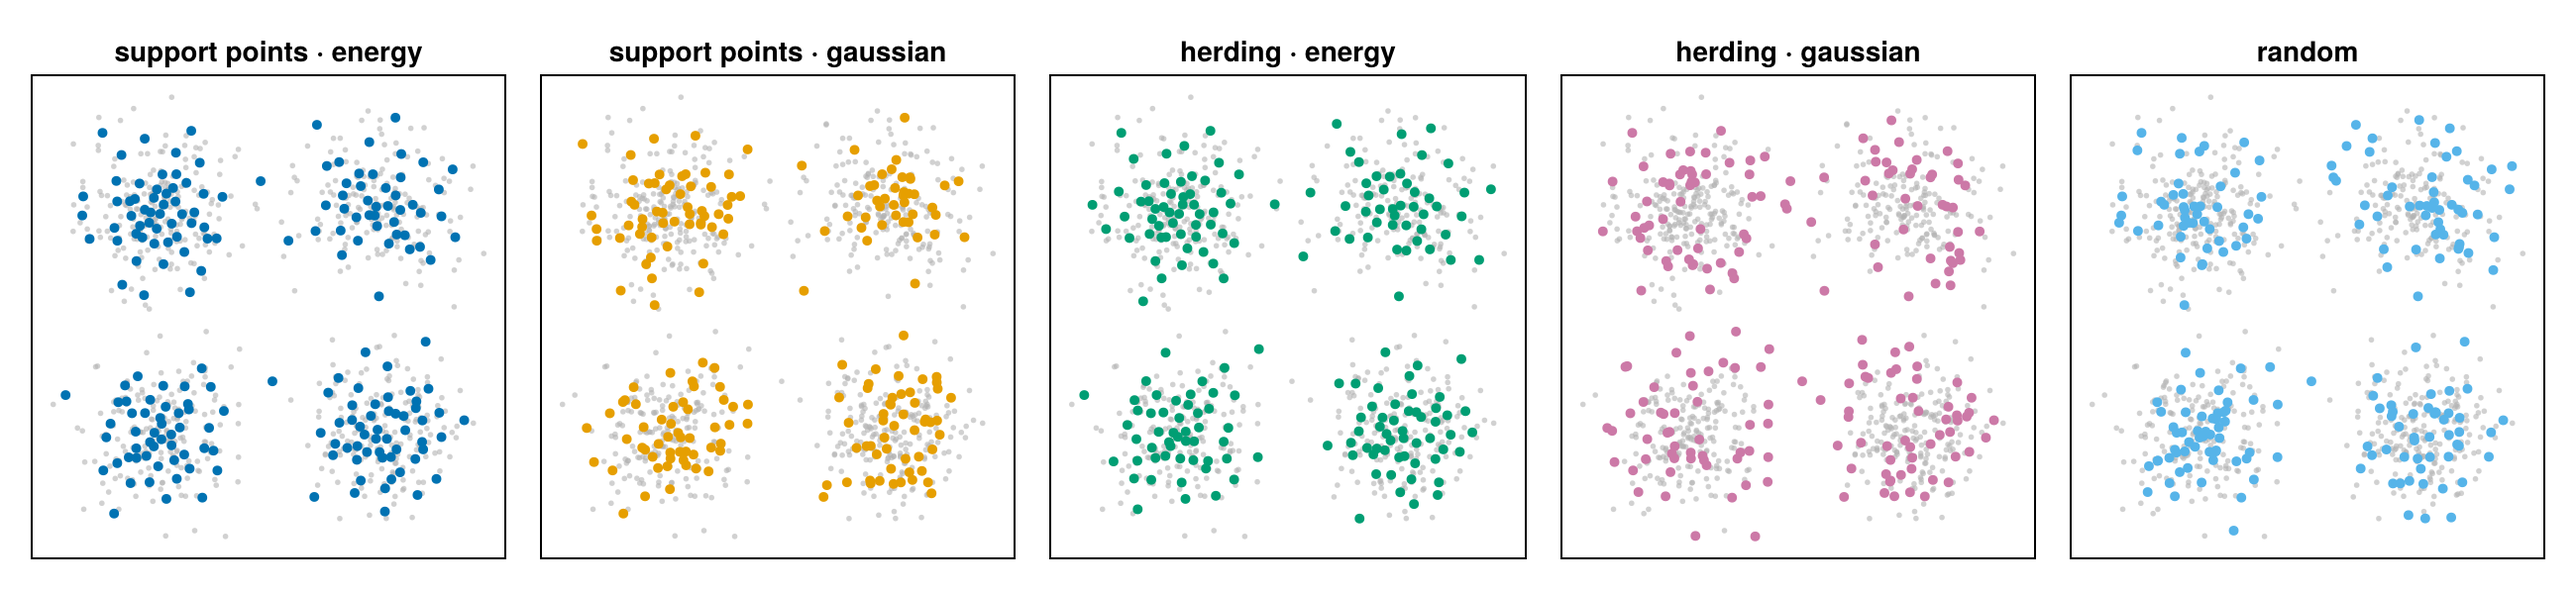
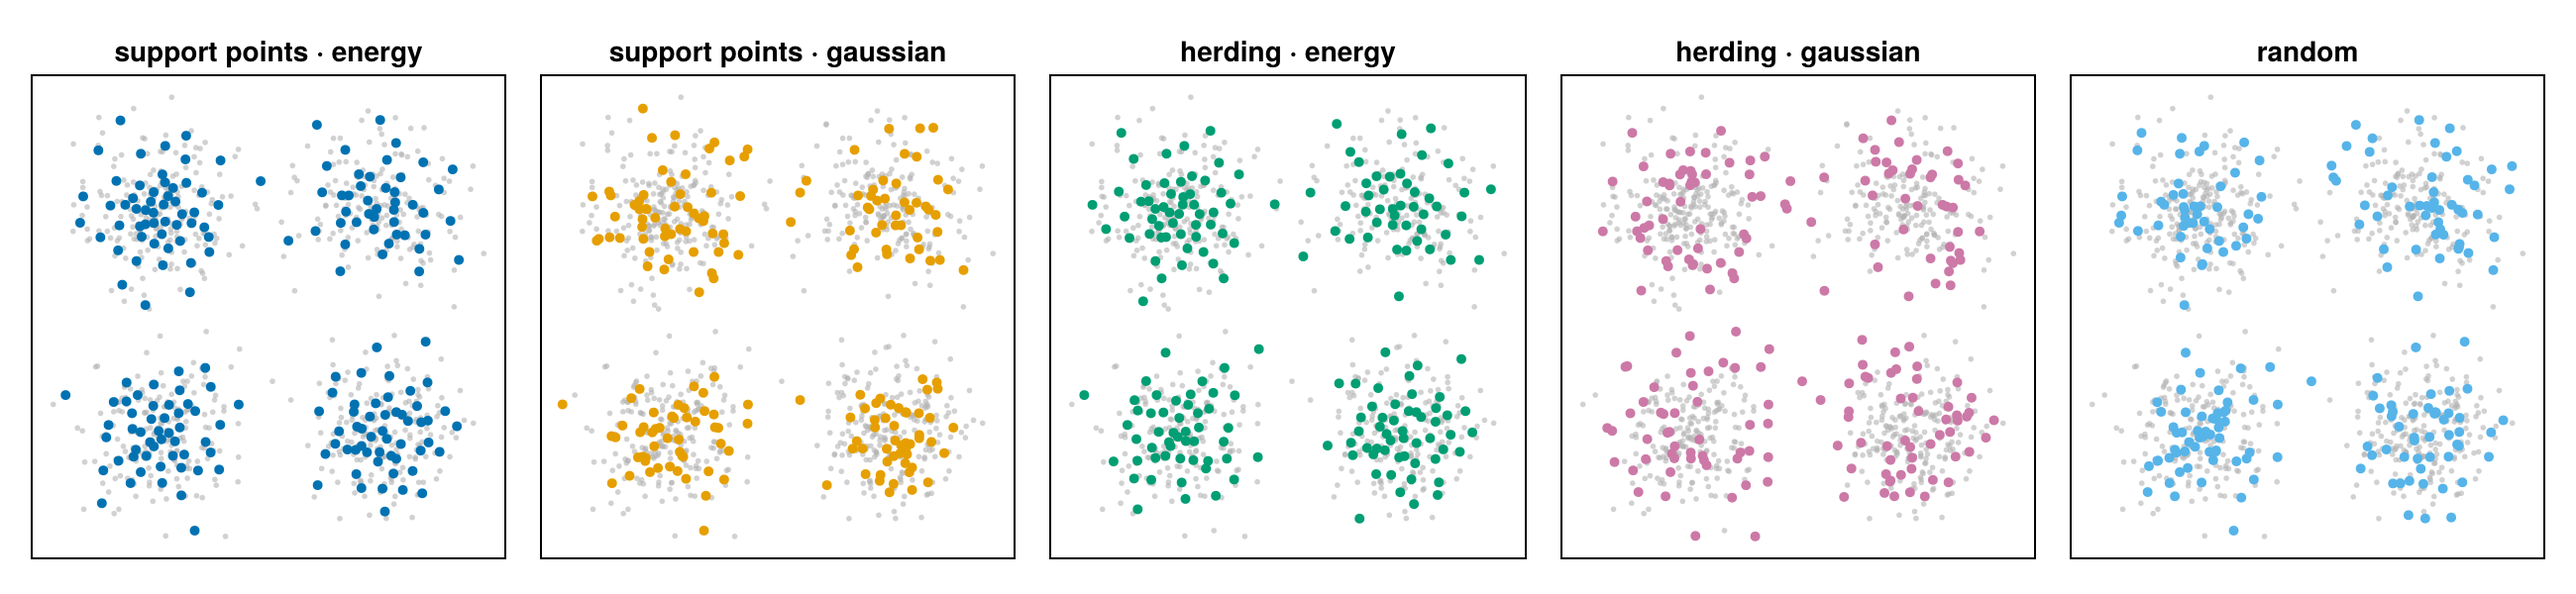
bench: Score splits exactly with seeded rngs and re-run
benchmark/run.jl:
- Score every (dataset, method) pair with splitquality(...;
  exact_threshold = typemax(Int)) so the recorded energy distance and
  MMD are exact even at N = 10,000, never the subsampled estimator
  (which added positive-bias noise above the 4,000-row threshold).
- methods(N; rng_seed) now takes the rng seed explicitly; each
  splitter's JIT warm-up runs on a throwaway MersenneTwister(0)-seeded
  copy before the timed MersenneTwister(1)-seeded run, so warm-up
  compilation no longer consumes the timed splitter's own rng stream.
- time.png now draws one scatterlines series per (method, dataset)
  instead of pooling every dataset into one line per method, colored
  by method with one legend entry each.

Re-ran `julia -t auto --project=benchmark benchmark/run.jl` (3:11
wall, 16 threads) and committed the regenerated results.md and the
three PNGs. docs/src/20-benchmarks.md Setup now documents the exact
scoring and the warm-up/timed seed split; the Results table and
Reading the results section are rewritten from the new numbers, and
the early-stop explanation is corrected (see the following commit's
description for the root cause).

diff --git a/docs/src/20-benchmarks.md b/docs/src/20-benchmarks.md
@@ -18,13 +18,21 @@ At ``N = 10{,}000`` the support-point methods use `kappa = 1_000`
 has no stochastic mode) to keep wall time reasonable; the herding methods
 use `kappa = 2_000` at that size. On `normal-10d` and `uniform-5d` at that
 size, `support points · gaussian` converges after a single iteration
-(`result.converged == true`, ~1 s) rather than running the full
+(`result.converged == true`, 0.49-0.58 s) rather than running the full
 100-iteration cap that `mixture-2d` and `t3-3d` use there (not converged,
-~40-45 s) — see "Reading the results" for why.
+43-44 s): the absolute displacement tolerance fires at the initial sample
+because the 1/n-scaled gradient is below it; a scale-aware tolerance is a
+planned follow-up — see "Reading the results" for the full explanation.
 
 For every (dataset, method) pair the script records the energy distance and
 the Gaussian-kernel MMD (median-heuristic bandwidth, resolved once per
 dataset) between the resulting train and test rows, plus wall-clock time.
+Every score is computed exactly (`splitquality(...; exact_threshold =
+typemax(Int))`), never via the subsampled estimator, so the table below
+carries no subsampling noise even at ``N = 10{,}000``. Each splitter's
+JIT warm-up runs on a throwaway copy seeded with `MersenneTwister(0)`
+before the timed run on a `MersenneTwister(1)`-seeded copy, so warm-up
+compilation never consumes the timed splitter's own random draws.
 Smaller is better for both discrepancy metrics.
 
 Exact command:
@@ -60,69 +68,86 @@ overlaid, showing why the methods disagree on which rows to hold out.
 
 | dataset | N | method | energy distance | MMD (Gaussian, median σ) | seconds |
 |---|---:|---|---:|---:|---:|
-| mixture-2d | 1000 | support points · energy | 0.000333 | 1.1e-6 | 0.46 |
-| mixture-2d | 1000 | support points · gaussian | 0.00258 | 1.64e-5 | 1.1 |
-| mixture-2d | 1000 | herding · energy | 0.000439 | 1.08e-5 | 0.0018 |
-| mixture-2d | 1000 | herding · gaussian | 0.00772 | 1.9e-5 | 0.021 |
+| mixture-2d | 1000 | support points · energy | 0.000323 | 1.57e-6 | 0.33 |
+| mixture-2d | 1000 | support points · gaussian | 0.00235 | 9.1e-6 | 1.1 |
+| mixture-2d | 1000 | herding · energy | 0.000439 | 1.08e-5 | 0.0021 |
+| mixture-2d | 1000 | herding · gaussian | 0.00772 | 1.9e-5 | 0.018 |
 | mixture-2d | 1000 | random | 0.012 | 0.00258 | – |
-| normal-10d | 1000 | support points · energy | 0.0229 | 0.00203 | 0.52 |
-| normal-10d | 1000 | support points · gaussian | 0.0309 | 0.00302 | 1.2 |
-| normal-10d | 1000 | herding · energy | 0.00822 | 0.000114 | 0.0029 |
-| normal-10d | 1000 | herding · gaussian | 0.00927 | 9.82e-5 | 0.015 |
+| normal-10d | 1000 | support points · energy | 0.0215 | 0.00187 | 0.76 |
+| normal-10d | 1000 | support points · gaussian | 0.0247 | 0.00224 | 1.3 |
+| normal-10d | 1000 | herding · energy | 0.00822 | 0.000114 | 0.0027 |
+| normal-10d | 1000 | herding · gaussian | 0.00927 | 9.82e-5 | 0.031 |
 | normal-10d | 1000 | random | 0.0255 | 0.00227 | – |
-| uniform-5d | 1000 | support points · energy | 0.00392 | 9.87e-5 | 0.54 |
-| uniform-5d | 1000 | support points · gaussian | 0.0149 | 0.00176 | 1.2 |
-| uniform-5d | 1000 | herding · energy | 0.00343 | 3.62e-5 | 0.002 |
-| uniform-5d | 1000 | herding · gaussian | 0.00535 | 3.54e-5 | 0.012 |
+| uniform-5d | 1000 | support points · energy | 0.0047 | 0.000255 | 0.56 |
+| uniform-5d | 1000 | support points · gaussian | 0.015 | 0.00176 | 1.1 |
+| uniform-5d | 1000 | herding · energy | 0.00343 | 3.62e-5 | 0.012 |
+| uniform-5d | 1000 | herding · gaussian | 0.00535 | 3.54e-5 | 0.016 |
 | uniform-5d | 1000 | random | 0.0173 | 0.00217 | – |
-| t3-3d | 1000 | support points · energy | 0.00156 | 8.0e-5 | 0.33 |
-| t3-3d | 1000 | support points · gaussian | 0.00669 | 0.000993 | 1.1 |
-| t3-3d | 1000 | herding · energy | 0.00174 | 9.8e-5 | 0.0017 |
-| t3-3d | 1000 | herding · gaussian | 0.0035 | 7.58e-5 | 0.017 |
+| t3-3d | 1000 | support points · energy | 0.00163 | 0.000116 | 0.43 |
+| t3-3d | 1000 | support points · gaussian | 0.0052 | 0.000663 | 1.1 |
+| t3-3d | 1000 | herding · energy | 0.00174 | 9.8e-5 | 0.0018 |
+| t3-3d | 1000 | herding · gaussian | 0.0035 | 7.58e-5 | 0.014 |
 | t3-3d | 1000 | random | 0.0161 | 0.00375 | – |
-| mixture-2d | 10000 | support points · energy | 0.00102 | 0.000119 | 3.4 |
-| mixture-2d | 10000 | support points · gaussian | 0.00135 | 0.000184 | 41.0 |
-| mixture-2d | 10000 | herding · energy | 0.00159 | 0.000393 | 0.14 |
-| mixture-2d | 10000 | herding · gaussian | 0.00635 | 0.000297 | 0.38 |
-| mixture-2d | 10000 | random | 0.00151 | 0.000286 | – |
-| normal-10d | 10000 | support points · energy | 0.00361 | 0.000315 | 8.8 |
-| normal-10d | 10000 | support points · gaussian | 0.00455 | 0.000457 | 0.49 |
-| normal-10d | 10000 | herding · energy | 0.0045 | 0.000371 | 0.16 |
-| normal-10d | 10000 | herding · gaussian | 0.0046 | 0.000431 | 0.38 |
-| normal-10d | 10000 | random | 0.00355 | 0.000302 | – |
-| uniform-5d | 10000 | support points · energy | 0.00265 | 0.000373 | 5.6 |
-| uniform-5d | 10000 | support points · gaussian | 0.00303 | 0.00039 | 0.46 |
-| uniform-5d | 10000 | herding · energy | 0.0026 | 0.000281 | 0.12 |
-| uniform-5d | 10000 | herding · gaussian | 0.00338 | 0.00049 | 0.37 |
-| uniform-5d | 10000 | random | 0.00252 | 0.000327 | – |
-| t3-3d | 10000 | support points · energy | 0.00106 | 0.000246 | 4.2 |
-| t3-3d | 10000 | support points · gaussian | 0.00165 | 0.000259 | 45.0 |
-| t3-3d | 10000 | herding · energy | 0.00154 | 0.000426 | 0.091 |
-| t3-3d | 10000 | herding · gaussian | 0.0024 | 0.000397 | 0.32 |
-| t3-3d | 10000 | random | 0.00213 | 0.00044 | – |
+| mixture-2d | 10000 | support points · energy | 0.000173 | 3.2e-5 | 3.6 |
+| mixture-2d | 10000 | support points · gaussian | 0.0003 | 7.76e-7 | 43.0 |
+| mixture-2d | 10000 | herding · energy | 0.00121 | 0.000259 | 0.18 |
+| mixture-2d | 10000 | herding · gaussian | 0.00466 | 0.000163 | 0.4 |
+| mixture-2d | 10000 | random | 0.000885 | 0.000166 | – |
+| normal-10d | 10000 | support points · energy | 0.0025 | 0.000215 | 9.2 |
+| normal-10d | 10000 | support points · gaussian | 0.00299 | 0.000289 | 0.49 |
+| normal-10d | 10000 | herding · energy | 0.00238 | 0.000216 | 0.15 |
+| normal-10d | 10000 | herding · gaussian | 0.00313 | 0.000289 | 0.45 |
+| normal-10d | 10000 | random | 0.00208 | 0.000164 | – |
+| uniform-5d | 10000 | support points · energy | 0.000844 | 7.24e-5 | 6.0 |
+| uniform-5d | 10000 | support points · gaussian | 0.00187 | 0.000244 | 0.58 |
+| uniform-5d | 10000 | herding · energy | 0.00137 | 0.000147 | 0.14 |
+| uniform-5d | 10000 | herding · gaussian | 0.00188 | 0.000246 | 0.36 |
+| uniform-5d | 10000 | random | 0.00146 | 0.00016 | – |
+| t3-3d | 10000 | support points · energy | 0.000262 | 4.82e-5 | 4.8 |
+| t3-3d | 10000 | support points · gaussian | 0.000567 | 7.64e-5 | 44.0 |
+| t3-3d | 10000 | herding · energy | 0.000886 | 0.000155 | 0.11 |
+| t3-3d | 10000 | herding · gaussian | 0.00153 | 0.000217 | 0.35 |
+| t3-3d | 10000 | random | 0.00151 | 0.000305 | – |
 
 ## Reading the results
 
-`support points · energy` has the lowest or near-lowest energy distance in
-most rows, though at ``N = 1{,}000`` `herding · energy` is lower on
-`normal-10d` (0.00822 vs. 0.0229) and `uniform-5d` (0.00343 vs. 0.00392).
-`herding · gaussian` matches or beats `support points · energy` on MMD at
-``N = 1{,}000`` on `normal-10d` and `uniform-5d`, at a small fraction of the
-cost since herding has no iterative optimizer to run; at ``N = 10{,}000`` it
-falls behind on both (0.000431 vs. 0.000315 on `normal-10d`; 0.00049 vs.
-0.000373 on `uniform-5d`). `support points · gaussian` is the slowest
-method on `mixture-2d` and `t3-3d`, where it runs the full 100-iteration
-cap without converging (41-45 s at ``N = 10{,}000``); on `normal-10d` and
-`uniform-5d` it instead converges after one iteration, because with the
-median-heuristic bandwidth in 5-10 dimensions the initial random sample is
-already near-stationary for the MMD objective, so the optimizer stops right
-away — those two cells reflect an early stop (essentially a random sample),
-not a capped optimization, and their 0.46-0.49 s timings are not evidence
-of fast optimization. At ``N = 10{,}000``, energy distance favors the
-optimized methods on `mixture-2d` and `t3-3d`, while on `normal-10d` and
-`uniform-5d` every method is within noise of — or slightly behind — the
-random baseline on both metrics (the subsampled `splitquality` estimate
-above the 4,000-row exact threshold adds its own noise there). Recommendation:
-use `support points · energy` as the default; reach for `herding · gaussian`
-when Gaussian-kernel MMD is the target metric or a deterministic,
-optimizer-free split is wanted.
+At ``N = 1{,}000`` every method runs on the full data (no `kappa`), and
+herding is competitive with or ahead of support points: `herding · energy`
+has the lowest energy distance on `normal-10d` (0.00822 vs. 0.0215) and
+`uniform-5d` (0.00343 vs. 0.0047), and `herding · gaussian` has the lowest
+MMD on `normal-10d`, `uniform-5d`, and `t3-3d` (e.g. 9.82e-5 vs. 0.00187 on
+`normal-10d`) at a small fraction of the optimizer's wall time.
+`support points · energy` wins both metrics on `mixture-2d` and the energy
+distance on `t3-3d`.
+
+At ``N = 10{,}000``, where herding switches to `kappa = 2{,}000` (a 20%
+row subsample drawn once for the whole run) and `support points · energy`
+to `kappa = 1{,}000`, herding's advantage mostly disappears:
+`support points · energy` has the lowest energy distance on `mixture-2d`
+(0.000173), `uniform-5d` (0.000844), and `t3-3d` (0.000262), and the lowest
+MMD on `uniform-5d` and `t3-3d`; `support points · gaussian` has the lowest
+MMD on `mixture-2d` (7.76e-7). On `normal-10d` at ``N = 10{,}000`` every
+optimized method is slightly behind the random baseline on both metrics
+(random: 0.00208 energy distance, 0.000164 MMD) — with 10-D standard normal
+data and this coarse a reference sample, none of the methods has enough
+signal to reliably beat chance, and the gaps between methods there are
+small enough not to be decisive.
+
+`support points · gaussian` is the slowest method on `mixture-2d` and
+`t3-3d`, where it runs the full 100-iteration cap without converging
+(43-44 s at ``N = 10{,}000``); on `normal-10d` and `uniform-5d` it instead
+converges after a single iteration (0.49-0.58 s). This is not the sample
+being near-stationary: the objective's ``1/n^2`` and ``1/(nN)`` scaling
+factors make the initial gradient row-norms of order ``10^{-6}``, so the
+first squared displacement (``\sim 10^{-11}``) is already below
+`tolerance = 1e-10` — the absolute displacement tolerance fires at the
+initial sample because the 1/n-scaled gradient is below it, even though
+further iterations do decrease the objective; a scale-aware tolerance is a
+planned follow-up. Those two cells reflect this early stop, not a capped
+optimization, and their fast timings are not evidence of fast convergence.
+
+Recommendation: use `support points · energy` as the default at scale
+(``N \gtrsim 10{,}000`` with `kappa`); at smaller ``N``, where herding runs
+on the full data without `kappa`, `herding · gaussian` is a strong,
+deterministic, and far cheaper alternative when Gaussian-kernel MMD is the
+target metric.

diff --git a/docs/src/assets/benchmarks/results.md b/docs/src/assets/benchmarks/results.md
@@ -1,42 +1,42 @@
 | dataset | N | method | energy distance | MMD (Gaussian, median σ) | seconds |
 |---|---:|---|---:|---:|---:|
-| mixture-2d | 1000 | support points · energy | 0.000333 | 1.1e-6 | 0.46 |
-| mixture-2d | 1000 | support points · gaussian | 0.00258 | 1.64e-5 | 1.1 |
-| mixture-2d | 1000 | herding · energy | 0.000439 | 1.08e-5 | 0.0018 |
-| mixture-2d | 1000 | herding · gaussian | 0.00772 | 1.9e-5 | 0.021 |
+| mixture-2d | 1000 | support points · energy | 0.000323 | 1.57e-6 | 0.33 |
+| mixture-2d | 1000 | support points · gaussian | 0.00235 | 9.1e-6 | 1.1 |
+| mixture-2d | 1000 | herding · energy | 0.000439 | 1.08e-5 | 0.0021 |
+| mixture-2d | 1000 | herding · gaussian | 0.00772 | 1.9e-5 | 0.018 |
 | mixture-2d | 1000 | random | 0.012 | 0.00258 | – |
-| normal-10d | 1000 | support points · energy | 0.0229 | 0.00203 | 0.52 |
-| normal-10d | 1000 | support points · gaussian | 0.0309 | 0.00302 | 1.2 |
-| normal-10d | 1000 | herding · energy | 0.00822 | 0.000114 | 0.0029 |
-| normal-10d | 1000 | herding · gaussian | 0.00927 | 9.82e-5 | 0.015 |
+| normal-10d | 1000 | support points · energy | 0.0215 | 0.00187 | 0.76 |
+| normal-10d | 1000 | support points · gaussian | 0.0247 | 0.00224 | 1.3 |
+| normal-10d | 1000 | herding · energy | 0.00822 | 0.000114 | 0.0027 |
+| normal-10d | 1000 | herding · gaussian | 0.00927 | 9.82e-5 | 0.031 |
 | normal-10d | 1000 | random | 0.0255 | 0.00227 | – |
-| uniform-5d | 1000 | support points · energy | 0.00392 | 9.87e-5 | 0.54 |
-| uniform-5d | 1000 | support points · gaussian | 0.0149 | 0.00176 | 1.2 |
-| uniform-5d | 1000 | herding · energy | 0.00343 | 3.62e-5 | 0.002 |
-| uniform-5d | 1000 | herding · gaussian | 0.00535 | 3.54e-5 | 0.012 |
+| uniform-5d | 1000 | support points · energy | 0.0047 | 0.000255 | 0.56 |
+| uniform-5d | 1000 | support points · gaussian | 0.015 | 0.00176 | 1.1 |
+| uniform-5d | 1000 | herding · energy | 0.00343 | 3.62e-5 | 0.012 |
+| uniform-5d | 1000 | herding · gaussian | 0.00535 | 3.54e-5 | 0.016 |
 | uniform-5d | 1000 | random | 0.0173 | 0.00217 | – |
-| t3-3d | 1000 | support points · energy | 0.00156 | 8.0e-5 | 0.33 |
-| t3-3d | 1000 | support points · gaussian | 0.00669 | 0.000993 | 1.1 |
-| t3-3d | 1000 | herding · energy | 0.00174 | 9.8e-5 | 0.0017 |
-| t3-3d | 1000 | herding · gaussian | 0.0035 | 7.58e-5 | 0.017 |
+| t3-3d | 1000 | support points · energy | 0.00163 | 0.000116 | 0.43 |
+| t3-3d | 1000 | support points · gaussian | 0.0052 | 0.000663 | 1.1 |
+| t3-3d | 1000 | herding · energy | 0.00174 | 9.8e-5 | 0.0018 |
+| t3-3d | 1000 | herding · gaussian | 0.0035 | 7.58e-5 | 0.014 |
 | t3-3d | 1000 | random | 0.0161 | 0.00375 | – |
-| mixture-2d | 10000 | support points · energy | 0.00102 | 0.000119 | 3.4 |
-| mixture-2d | 10000 | support points · gaussian | 0.00135 | 0.000184 | 41.0 |
-| mixture-2d | 10000 | herding · energy | 0.00159 | 0.000393 | 0.14 |
-| mixture-2d | 10000 | herding · gaussian | 0.00635 | 0.000297 | 0.38 |
-| mixture-2d | 10000 | random | 0.00151 | 0.000286 | – |
-| normal-10d | 10000 | support points · energy | 0.00361 | 0.000315 | 8.8 |
-| normal-10d | 10000 | support points · gaussian | 0.00455 | 0.000457 | 0.49 |
-| normal-10d | 10000 | herding · energy | 0.0045 | 0.000371 | 0.16 |
-| normal-10d | 10000 | herding · gaussian | 0.0046 | 0.000431 | 0.38 |
-| normal-10d | 10000 | random | 0.00355 | 0.000302 | – |
-| uniform-5d | 10000 | support points · energy | 0.00265 | 0.000373 | 5.6 |
-| uniform-5d | 10000 | support points · gaussian | 0.00303 | 0.00039 | 0.46 |
-| uniform-5d | 10000 | herding · energy | 0.0026 | 0.000281 | 0.12 |
-| uniform-5d | 10000 | herding · gaussian | 0.00338 | 0.00049 | 0.37 |
-| uniform-5d | 10000 | random | 0.00252 | 0.000327 | – |
-| t3-3d | 10000 | support points · energy | 0.00106 | 0.000246 | 4.2 |
-| t3-3d | 10000 | support points · gaussian | 0.00165 | 0.000259 | 45.0 |
-| t3-3d | 10000 | herding · energy | 0.00154 | 0.000426 | 0.091 |
-| t3-3d | 10000 | herding · gaussian | 0.0024 | 0.000397 | 0.32 |
-| t3-3d | 10000 | random | 0.00213 | 0.00044 | – |
+| mixture-2d | 10000 | support points · energy | 0.000173 | 3.2e-5 | 3.6 |
+| mixture-2d | 10000 | support points · gaussian | 0.0003 | 7.76e-7 | 43.0 |
+| mixture-2d | 10000 | herding · energy | 0.00121 | 0.000259 | 0.18 |
+| mixture-2d | 10000 | herding · gaussian | 0.00466 | 0.000163 | 0.4 |
+| mixture-2d | 10000 | random | 0.000885 | 0.000166 | – |
+| normal-10d | 10000 | support points · energy | 0.0025 | 0.000215 | 9.2 |
+| normal-10d | 10000 | support points · gaussian | 0.00299 | 0.000289 | 0.49 |
+| normal-10d | 10000 | herding · energy | 0.00238 | 0.000216 | 0.15 |
+| normal-10d | 10000 | herding · gaussian | 0.00313 | 0.000289 | 0.45 |
+| normal-10d | 10000 | random | 0.00208 | 0.000164 | – |
+| uniform-5d | 10000 | support points · energy | 0.000844 | 7.24e-5 | 6.0 |
+| uniform-5d | 10000 | support points · gaussian | 0.00187 | 0.000244 | 0.58 |
+| uniform-5d | 10000 | herding · energy | 0.00137 | 0.000147 | 0.14 |
+| uniform-5d | 10000 | herding · gaussian | 0.00188 | 0.000246 | 0.36 |
+| uniform-5d | 10000 | random | 0.00146 | 0.00016 | – |
+| t3-3d | 10000 | support points · energy | 0.000262 | 4.82e-5 | 4.8 |
+| t3-3d | 10000 | support points · gaussian | 0.000567 | 7.64e-5 | 44.0 |
+| t3-3d | 10000 | herding · energy | 0.000886 | 0.000155 | 0.11 |
+| t3-3d | 10000 | herding · gaussian | 0.00153 | 0.000217 | 0.35 |
+| t3-3d | 10000 | random | 0.00151 | 0.000305 | – |
